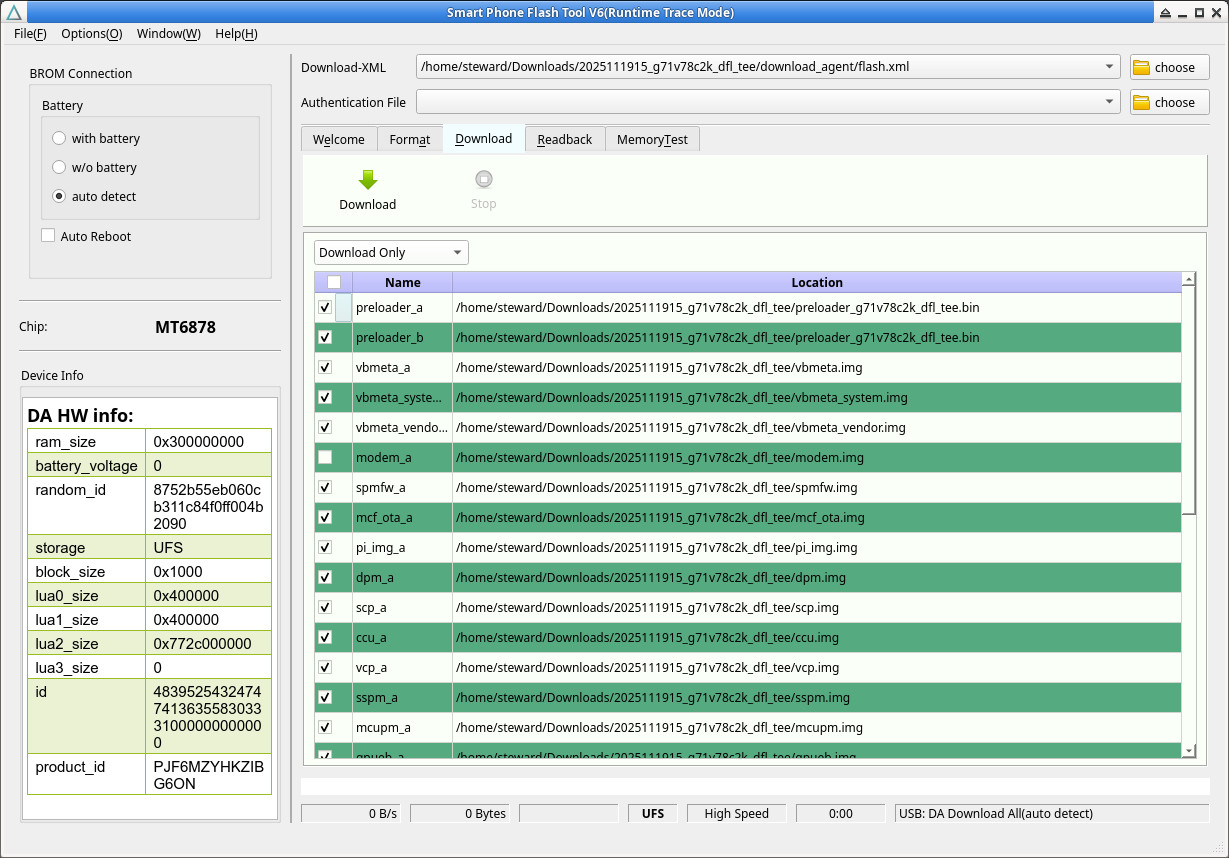
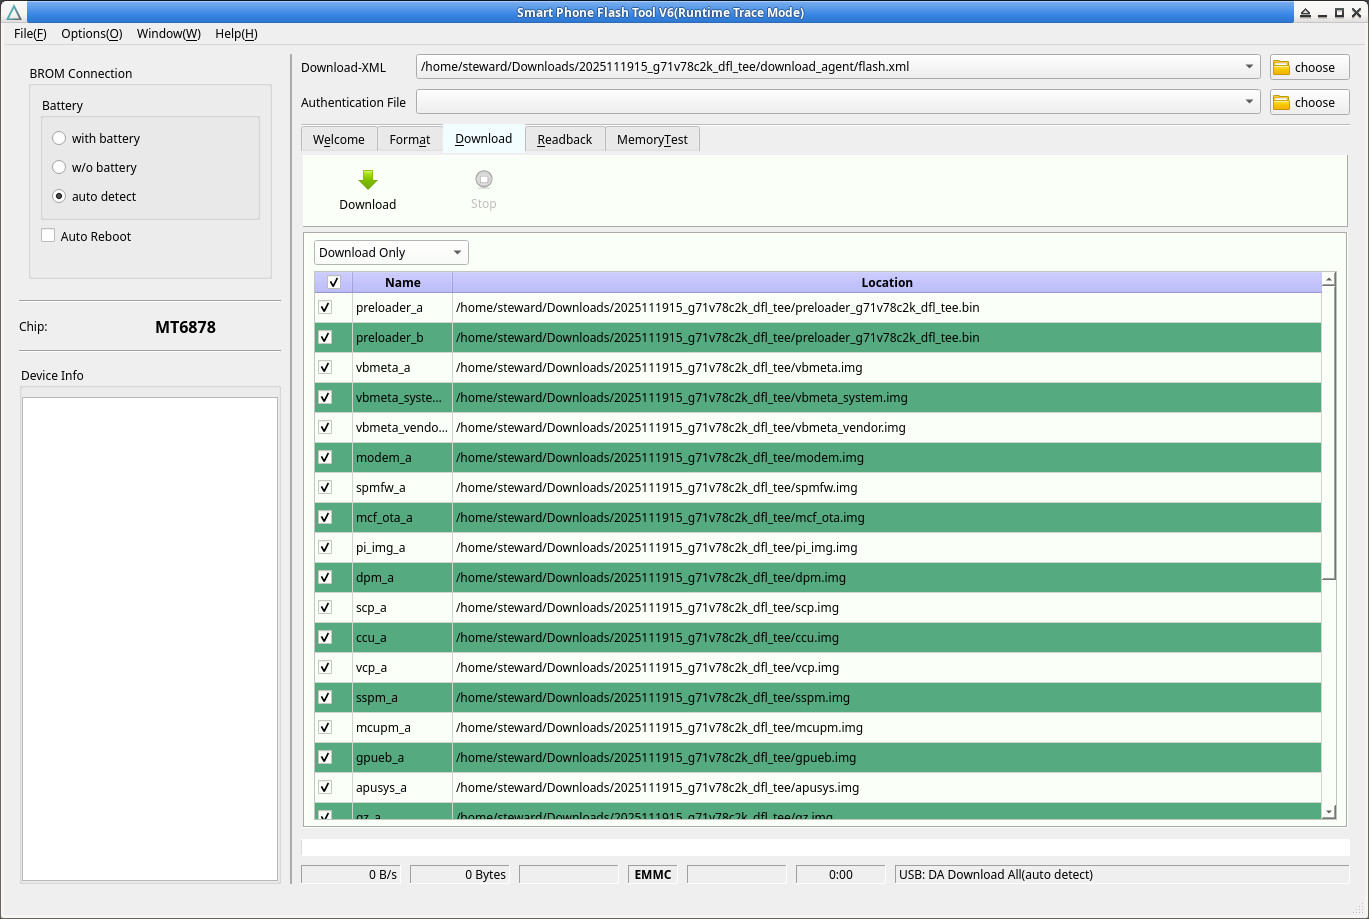
Titan 2 Fixed tee issue.

diff --git a/phone/titan2_fix_tee.htm b/phone/titan2_fix_tee.htm
@@ -1,0 +1,21 @@
+<!DOCTYPE html PUBLIC "-//W3C//DTD XHTML 1.0 Strict//EN" "http://www.w3.org/TR/xhtml1/DTD/xhtml1-strict.dtd">
+<html xmlns="http://www.w3.org/1999/xhtml" xml:lang="en" lang="en">
+<head><script type="text/javascript" src="../page_head.js"></script>
+
+<h3><a href="../phone.htm">手機</a> - Unihertz Titan 2 (None-EEA) - <b>解決TEE未激活、Google未激活問題</b></h3>
+<hr size="1"><br>
+<p>
+問題如下：<br>
+<img src="titan2_fix_tee/1.jpg" class="maxSize"><br><br>
+
+解法如下：
+</p>
+<pre>
+Settings =&gt; My device =&gt; 點擊Titan 2 (直到文字消失)
+</pre>
+<p>
+<img src="titan2_fix_tee/2.jpg" class="maxSize"><br>
+<img src="titan2_fix_tee/3.jpg" class="maxSize">
+</p>
+
+<br><script type="text/javascript" src="../tail.js"></script>

diff --git a/phone/titan2_remove_engineermode.htm b/phone/titan2_remove_engineermode.htm
@@ -1,0 +1,15 @@
+<!DOCTYPE html PUBLIC "-//W3C//DTD XHTML 1.0 Strict//EN" "http://www.w3.org/TR/xhtml1/DTD/xhtml1-strict.dtd">
+<html xmlns="http://www.w3.org/1999/xhtml" xml:lang="en" lang="en">
+<head><script type="text/javascript" src="../page_head.js"></script>
+
+<h3><a href="../phone.htm">手機</a> - Unihertz Titan 2 (None-EEA) - <b>如何移除com.mediatek.engineermode</b></h3>
+<hr size="1"><br>
+<p>
+步驟如下：
+</p>
+<pre>
+$ adb shell pm uninstall -k --user 0 com.mediatek.engineermode
+    Success
+</pre>
+
+<br><script type="text/javascript" src="../tail.js"></script>

diff --git a/phone.htm b/phone.htm
@@ -1284,8 +1284,16 @@ Rooted(Android 15)</a><br>
 安裝Android 15(SP Flash Tool)</a><br>
 
 &dash;
+<a href="phone/titan2_fix_tee.htm">
+解決TEE未激活、Google未激活問題</a><br>
+
+&dash;
 <a href="phone/titan2_modify_system.htm">
 如何在Android 15修改/system檔案</a><br>
+
+&dash;
+<a href="phone/titan2_remove_engineermode.htm">
+如何移除com.mediatek.engineermode</a><br>
 <br><br><br><br>
 
 <div id="titan"></div>

diff --git a/phone/titan2_flash.htm b/phone/titan2_flash.htm
@@ -23,11 +23,10 @@ $ sh SPFlashToolV6.sh
 
 <p>
 3. Download-XML選擇download_agent/flash.xml<br>
-4. 取消modem_a選項<br>
-5. 選擇Download Only<br>
+4. 選擇Download Only<br>
 <img src="titan2_flash/1.jpg" class="maxSize"><br><br>
 
-6. 按下Download即可開始燒錄<br>
+5. 按下Download即可開始燒錄<br>
 <img src="titan2_flash/2.jpg" class="maxSize">
 </p>
 
